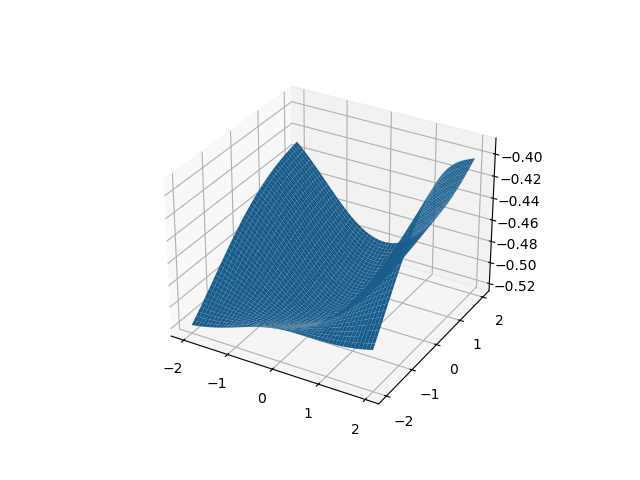
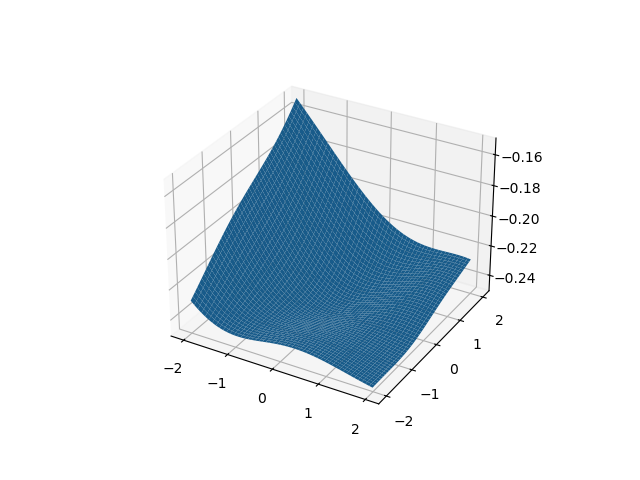
Test, with max loss

Changed region(s): [[0.25, 0.1875, 0.8438, 0.8125], [0.5625, 0.25, 0.6562, 0.2812]]

diff --git a/test.py b/test.py
@@ -17,7 +17,7 @@ device = (
 )
 
 num_traj = 100
-training_loops_per_run = 100
+training_loops_per_run = 1000
 max_eps = 0.1
 TimeOut = 120
 empirical_samples = 1000
